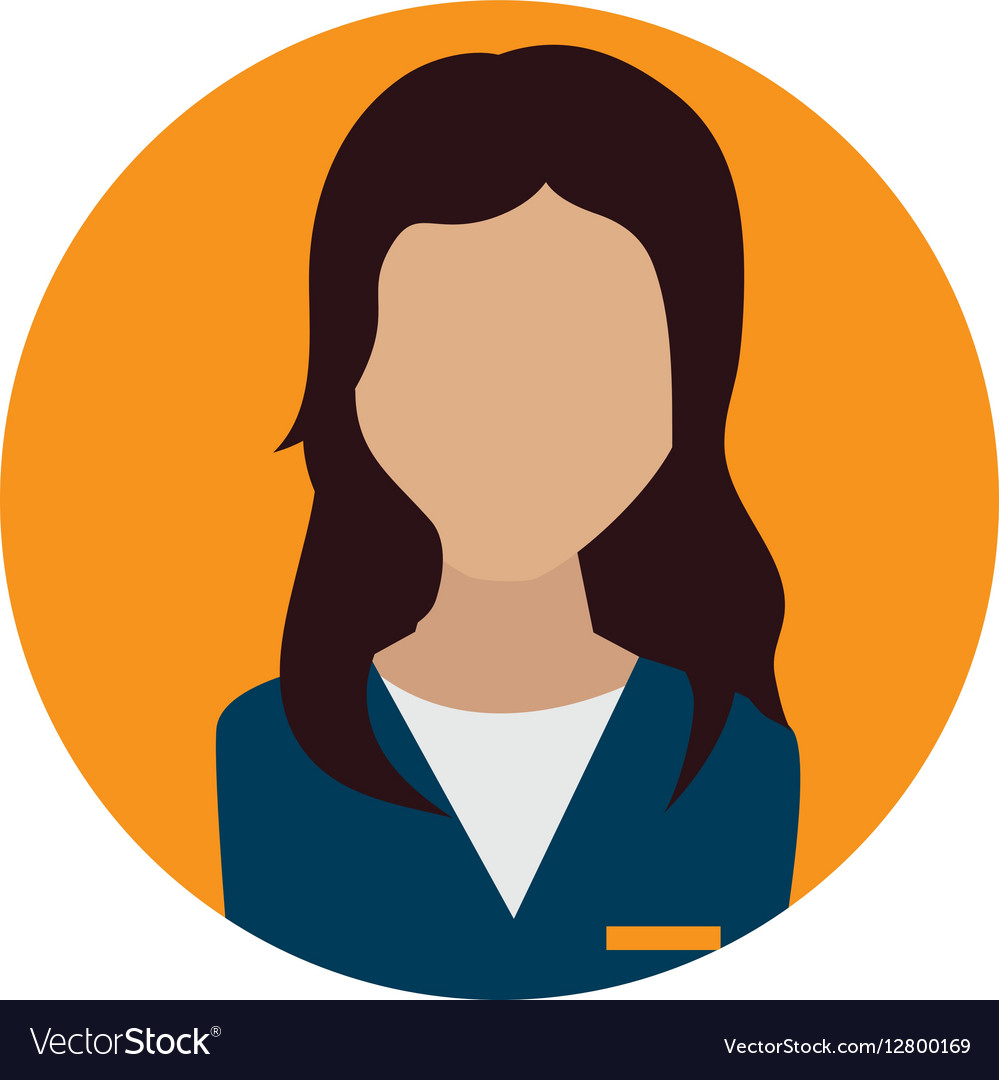
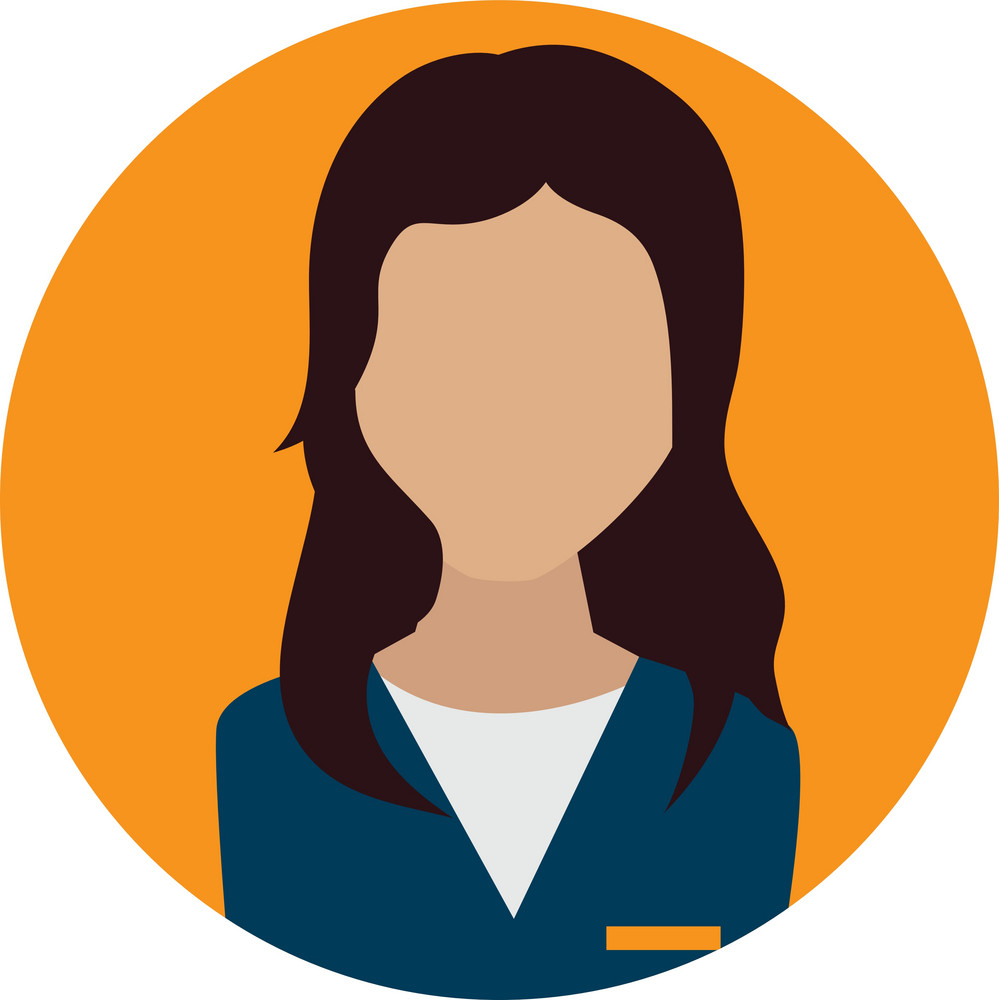
profile
friend avatars

diff --git a/profile.html b/profile.html
@@ -9,7 +9,7 @@
 	<div class="cakecalendartitle-profile"><b>Cake Calendar</b></div>
 
 <div class="profile-container">
-	<img src="images/profile picture.png" class="profile-picture" height="150" width="150" alt="">
+	<img src="images/Avatar1.jpg" class="profile-picture" height="150" width="150" alt="">
 </div>
 	
 <div class="profile-navbar">
@@ -23,43 +23,43 @@
 
 <div class="friends">
 	<div class="friendlist">
-		<div class="friendspicture"> <img src="images/profile picture.png" alt=""  class="friendprofile-picture"> </div>
+		<div class="friendspicture"> <img src="images/avatar4.png" alt=""  class="friendprofile-picture"> </div>
 		<h5>Julie Martina</h5>
 			07-04-2000
 		<p>20 Years!</p></div>
 	
 		<div class="friendlist">
-		<div class="friendspicture"> <img src="images/profile picture.png" alt=""  class="friendprofile-picture"> </div>
+		<div class="friendspicture"> <img src="images/avatar6.png" alt=""  class="friendprofile-picture"> </div>
 			<h5>Arleth Sanders</h5>
 			07-04-1997
 		<p>20 Years!</p></div>
 	
 		<div class="friendlist">
-		<div class="friendspicture"> <img src="images/profile picture.png" alt=""  class="friendprofile-picture"> </div>	
+		<div class="friendspicture"> <img src="images/avater2.jpg" alt=""  class="friendprofile-picture"> </div>	
 			<h5>Jochem Vogel</h5>
 			07-04-2000
 		<p>20 Years!</p></div>
 	
 		<div class="friendlist">
-		<div class="friendspicture"> <img src="images/profile picture.png" alt=""  class="friendprofile-picture"> </div>	
+		<div class="friendspicture"> <img src="images/avatar5.png" alt=""  class="friendprofile-picture"> </div>	
 			<h5>Chade Dohmen</h5>
 			07-04-1996
 		<p>20 Years!</p></div>
 	
 		<div class="friendlist">
-		<div class="friendspicture"> <img src="images/profile picture.png" alt=""  class="friendprofile-picture"> </div>	
+		<div class="friendspicture"> <img src="images/avater3.jpg" alt=""  class="friendprofile-picture"> </div>	
 			<h5>Danae Lips</h5>
 			07-04-2000
 		<p>20 Years!</p></div>
 	
 		<div class="friendlist">
-		<div class="friendspicture"> <img src="images/profile picture.png" alt=""  class="friendprofile-picture"> </div>	
+		<div class="friendspicture"> <img src="images/avatar7.png" alt=""  class="friendprofile-picture"> </div>	
 			<h5>Neftali Cannister</h5>
 			07-04-1998
 		<p>20 Years!</p></div>
 	
 		<div class="friendlist">
-		<div class="friendspicture"> <img src="images/profile picture.png" alt=""  class="friendprofile-picture"> </div>	
+		<div class="friendspicture"> <img src="images/avatar8.jpg" alt=""  class="friendprofile-picture"> </div>	
 			<h5>Thomas de Zeeuw</h5>
 			07-04-2000
 		<p>20 Years!</p></div>
